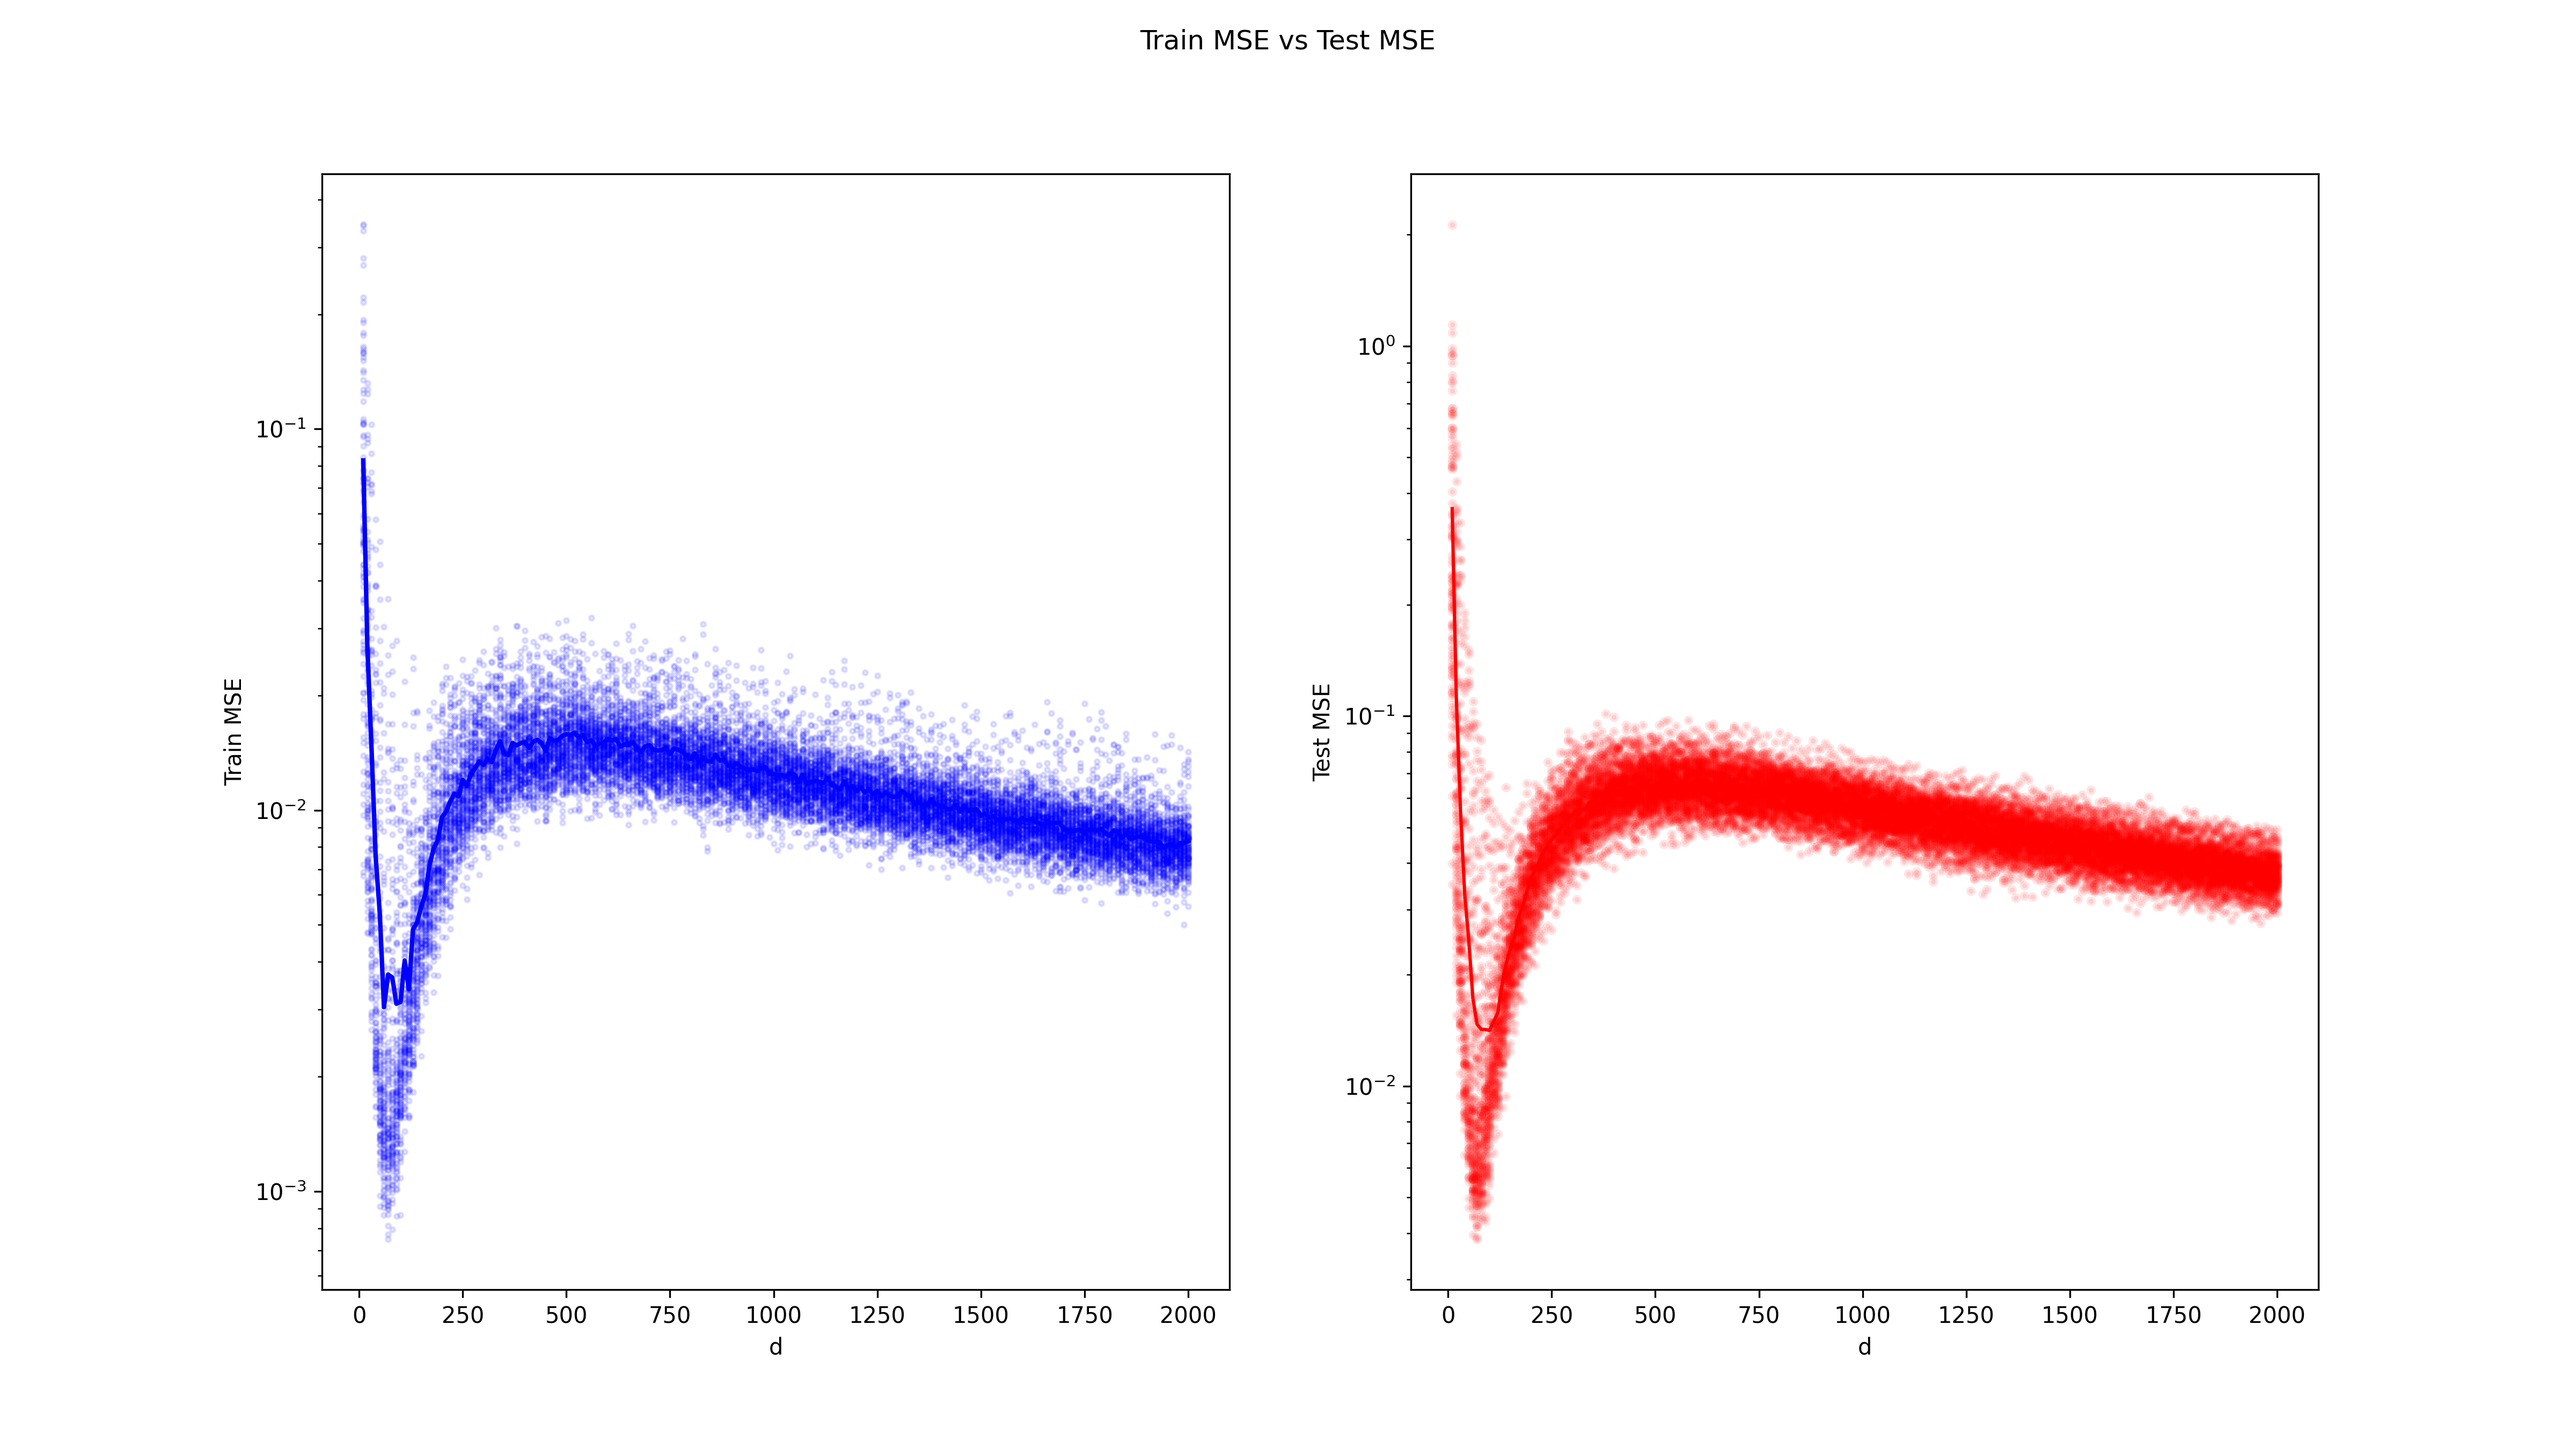
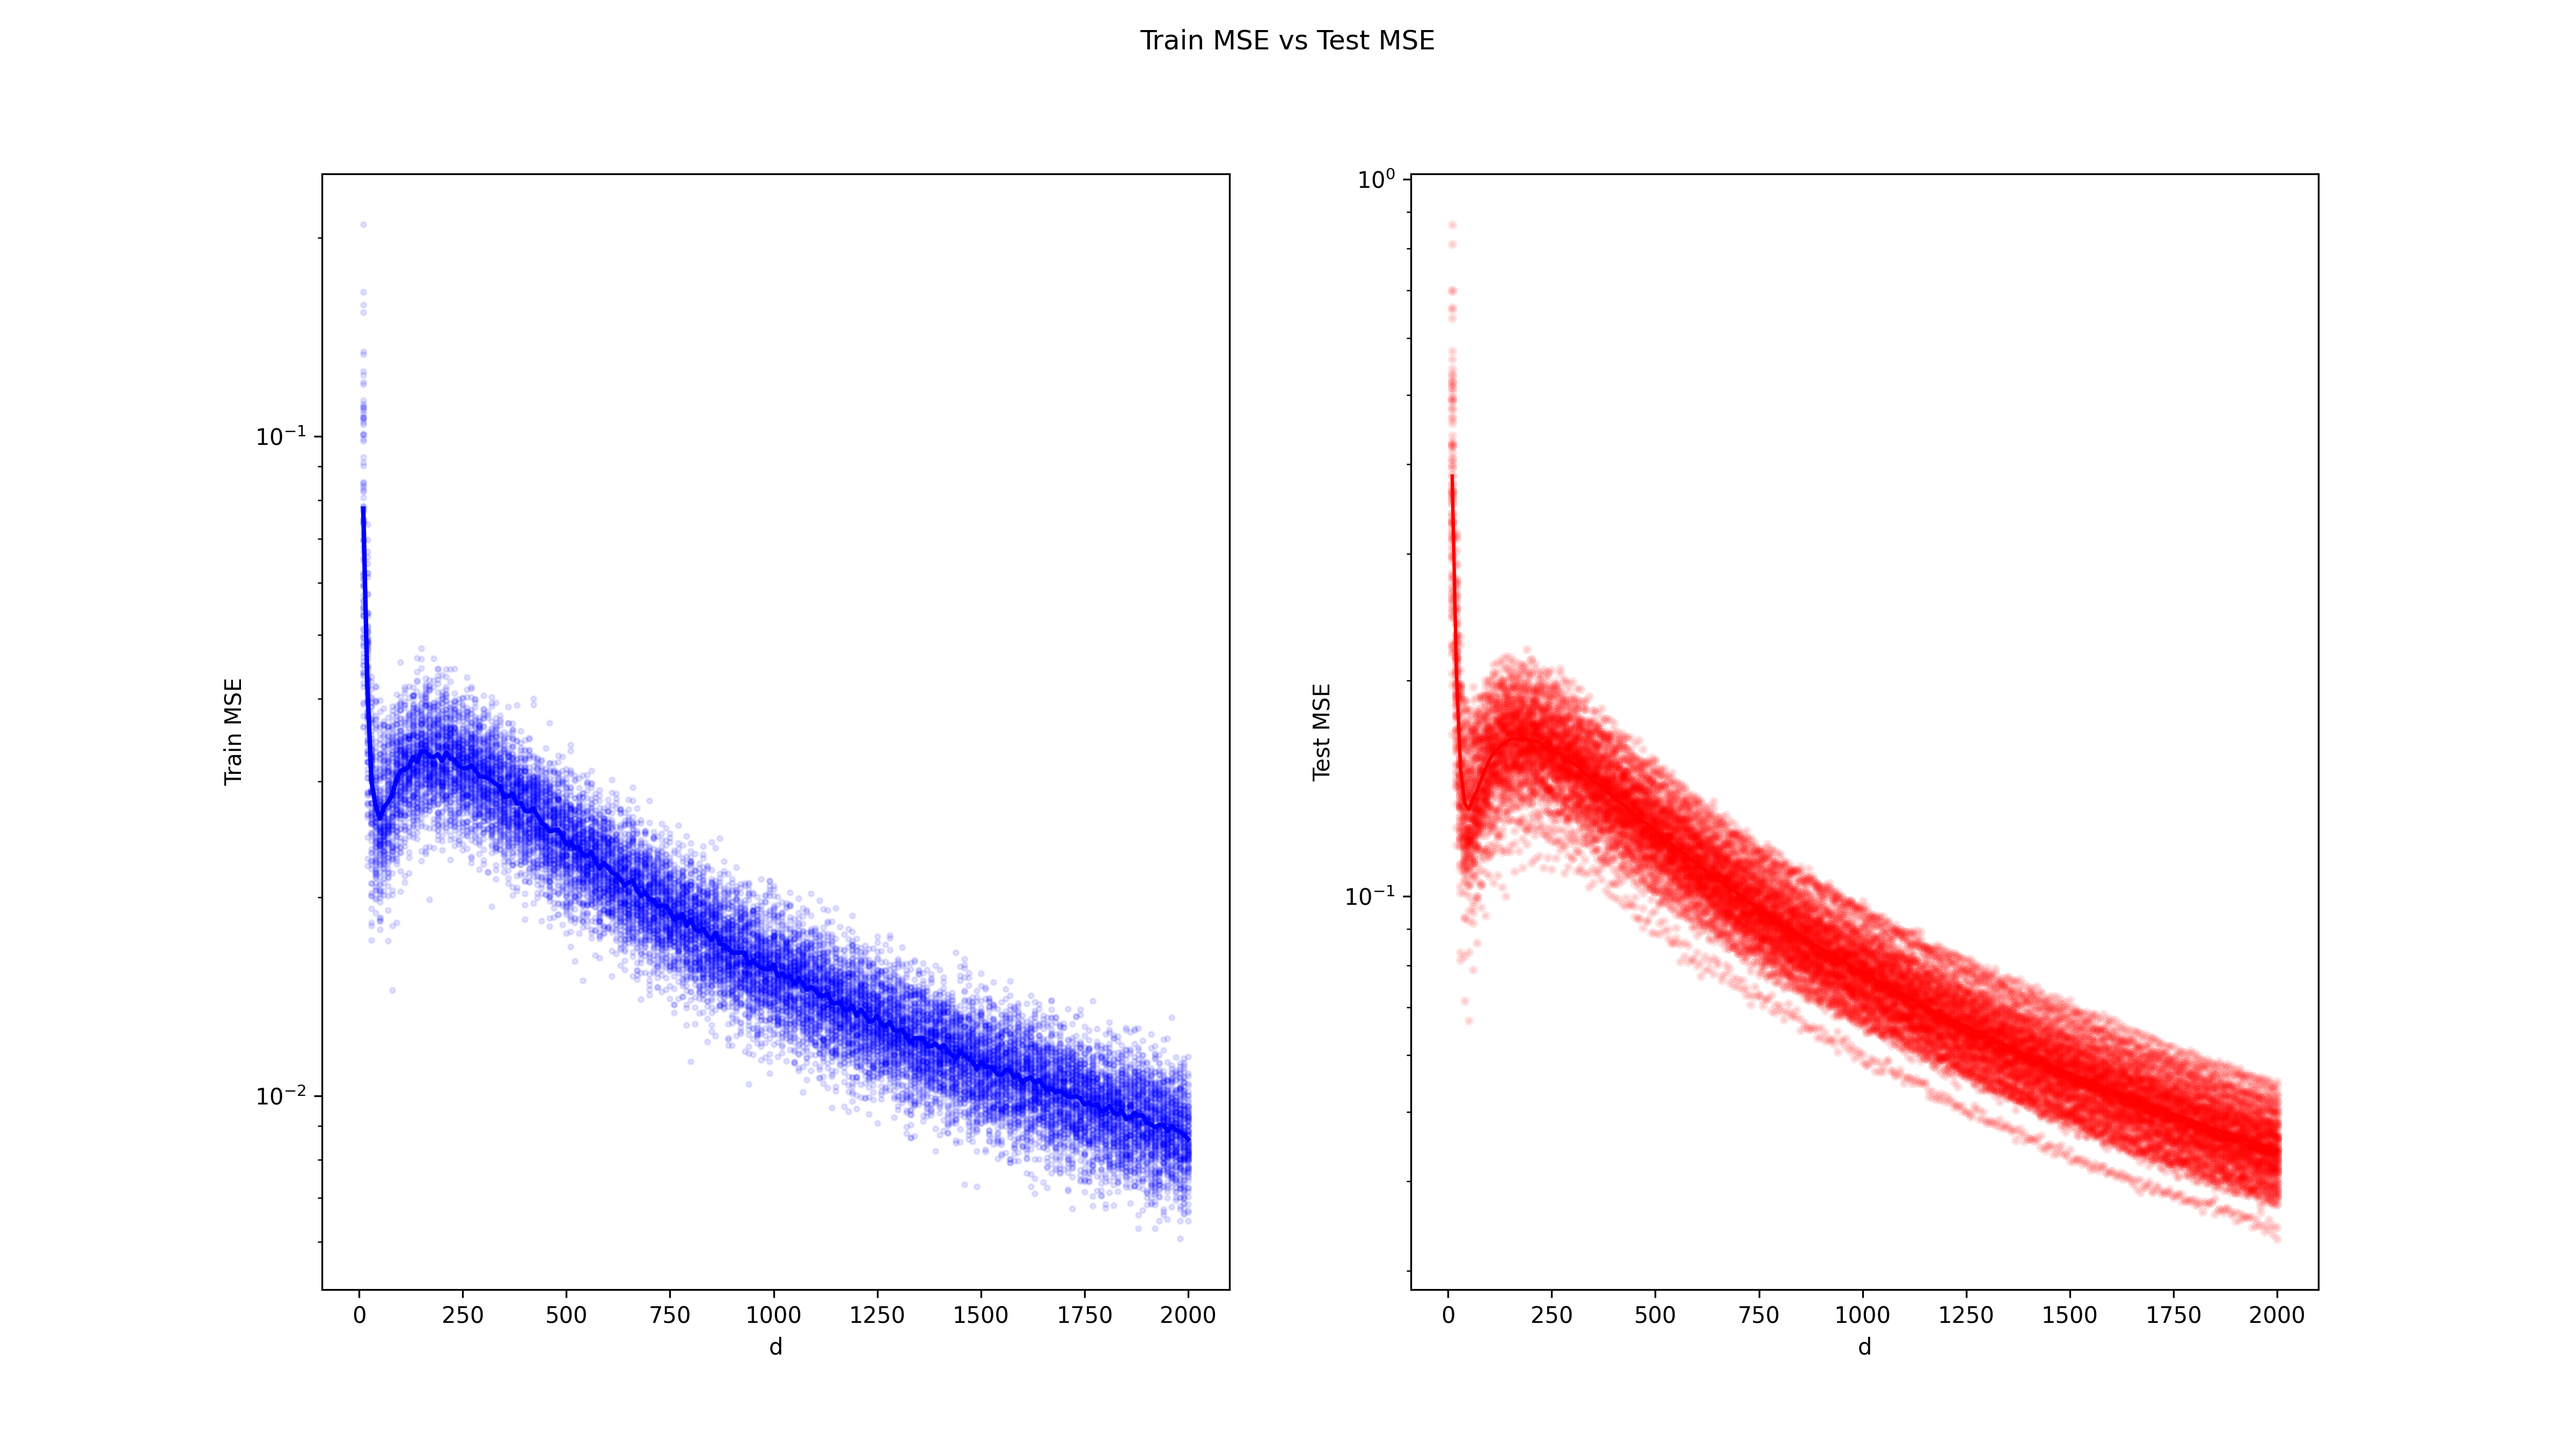
feat: 0th iteration kernel

diff --git a/src/rfm.py b/src/rfm.py
@@ -220,7 +220,7 @@ def train_rfm_gpu(
         y_val = y_train
 
     val_mse_hist = []
-    best_M = None
+    best_M = torch.eye(d, device=device)
     best_alpha = None
 
     M = torch.eye(d, device=device)
@@ -244,6 +244,11 @@ def train_rfm_gpu(
             "Iteration %d BEST VAL MSE: %.3f @ t=%d"
             % (t, min(val_mse_hist), np.argmin(val_mse_hist) + 1)
         )
+
+    if best_alpha is None:
+        # train a baseline (0th iteration kernel)
+        K_train = gpu_utils.K_M(X_train, X_train, M, L)
+        best_alpha = torch.linalg.solve(K_train + reg, y_train)
 
     # evaluate
     y_hat = (
